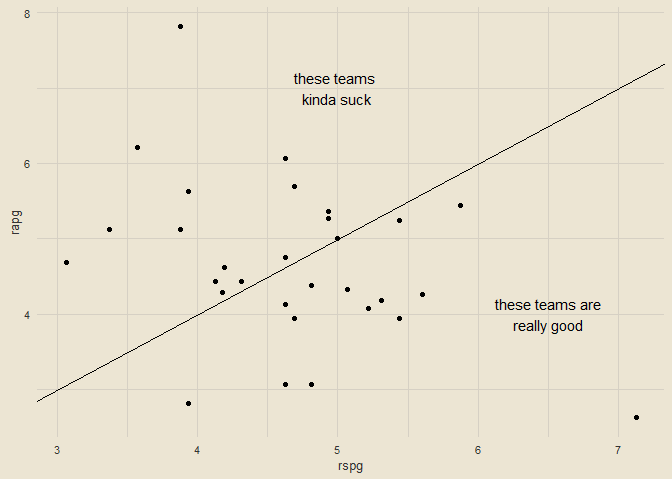
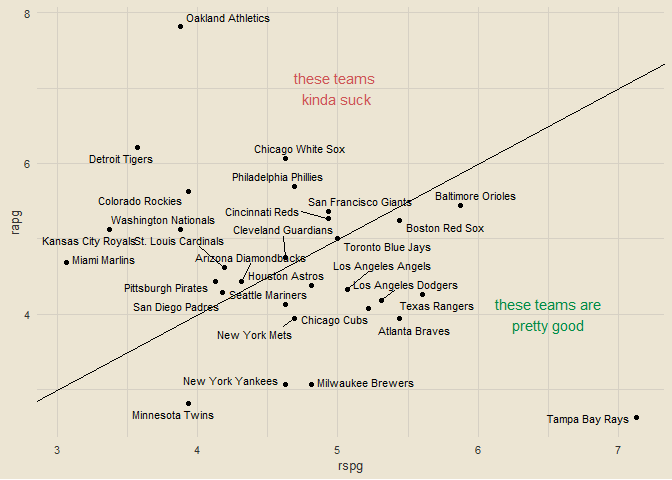
new commit

diff --git a/README.md b/README.md
@@ -65,8 +65,9 @@ rpg_df |>
   ggplot(aes(rspg, rapg)) +
   geom_point() +
   geom_abline() +
-  annotate("text", x = 6.5, y = 4, label = "these teams are\nreally good") +
-  annotate("text", x = 5, y = 7, label = "these teams \nkinda suck")
+  annotate("text", x = 6.5, y = 4, label = "these teams are\npretty good", col = "springgreen4") +
+  annotate("text", x = 5, y = 7, label = "these teams \nkinda suck", col = "indianred3") +
+  ggrepel::geom_text_repel(aes(label = team), size = 3, max.overlaps = 30)
 ```
 
 ![](README_files/figure-gfm/unnamed-chunk-4-1.png)<!-- -->
